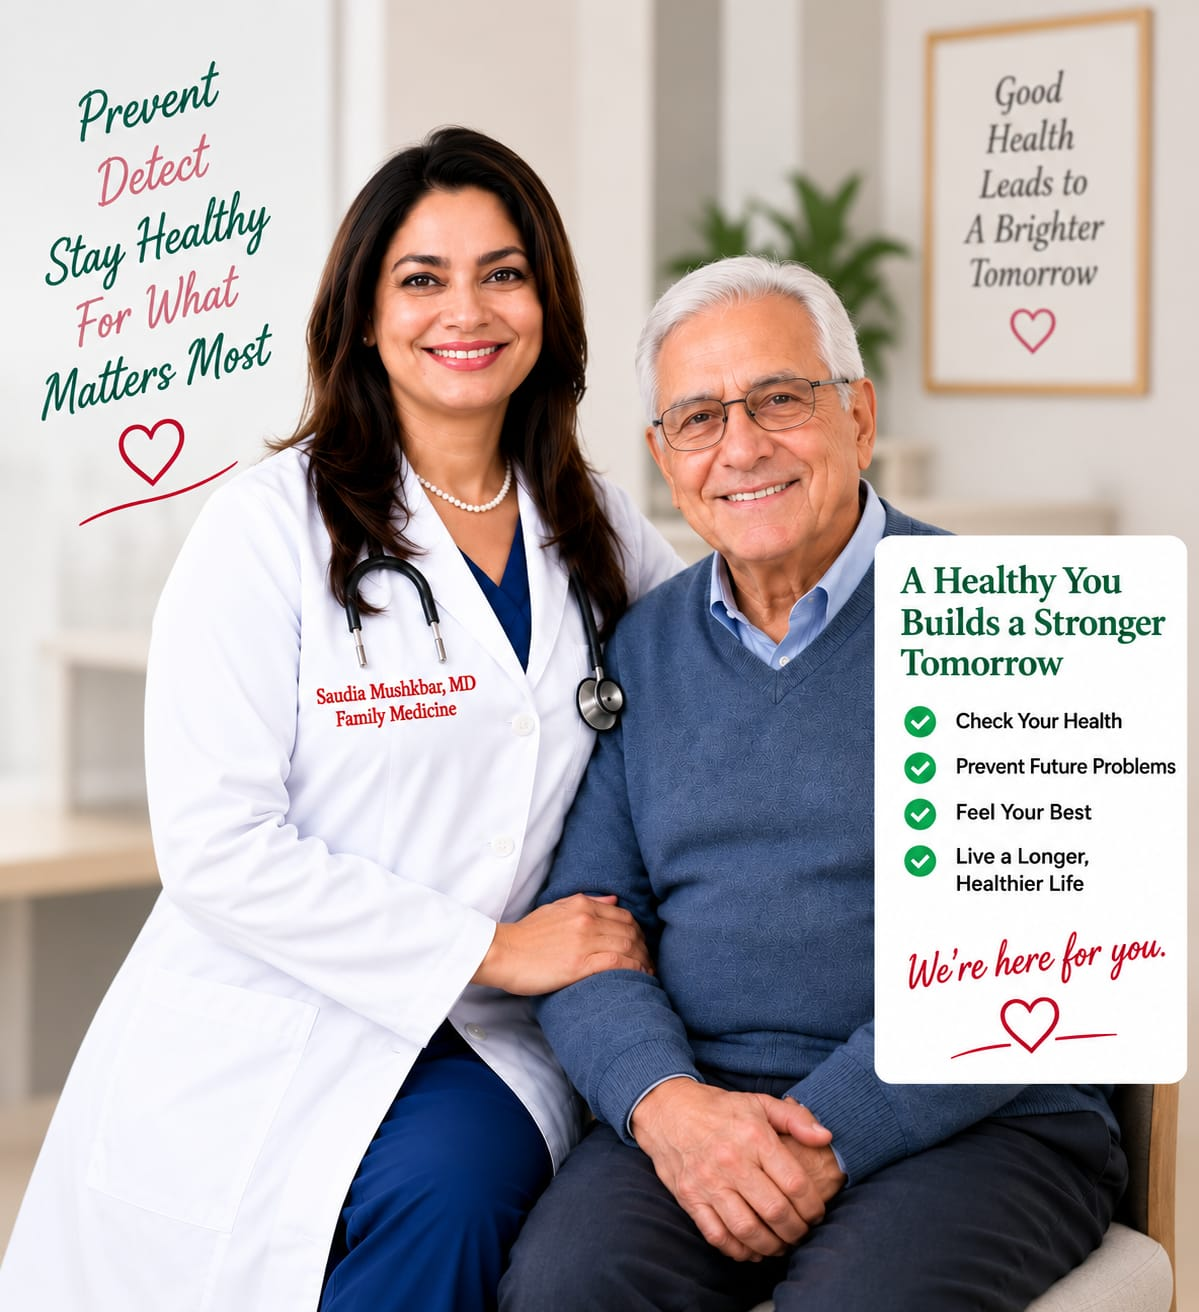
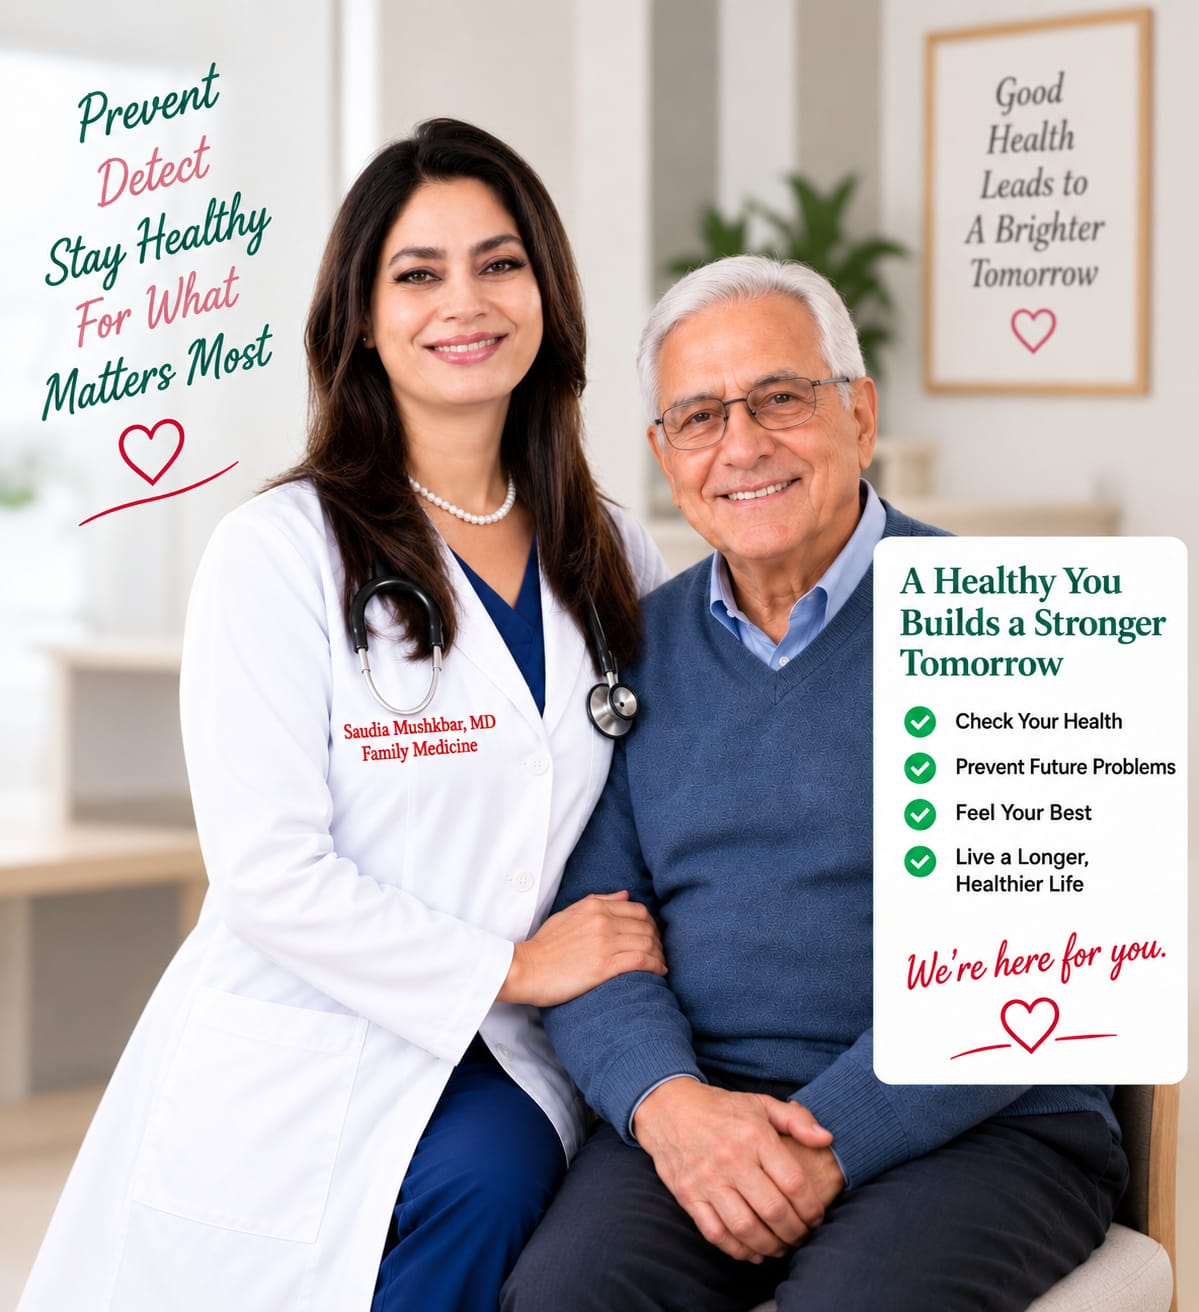
Restructure the Services menu, soften two claims, refresh seven hero images
Services menu now runs Primary Care Doctor, Same-Day Care, Annual Physical,
Women's Primary Care, Senior Primary Care, Hospital Follow-Up, Diabetes, High
Blood Pressure, Weight Loss & GLP-1 — Hospital Follow-Up moves up beside Senior
Primary Care, and the labels shorten to read as menu items rather than page
titles. The three Medicare pages stay in their own menu. The footer's "Care We
Provide" column draws from the same list, so the two cannot drift.

The footer also now links every page on the site. It was reaching eleven of
seventeen: Home was missing, the service column showed only the first six of
nine, and two of the three Medicare pages had no link at all. It is five
columns now, with a Medicare column of its own.

Two wording changes for accuracy rather than style:

The Medicare wellness page said "Covered by Medicare — Part of your Medicare
benefits" and "What Your Medicare Annual Wellness Visit Covers". Both read as a
promise about an individual's cost-sharing, which no web page can make. They
become "Medicare preventive benefit — For eligible beneficiaries" and "...May
Include".

The homepage booking section said "we can discuss a functional approach to
managing it", which implies the practice offers functional medicine. It now
reads "we can evaluate your concerns and develop a personalized approach to
your care". This is the first place migrated copy has been reworded rather than
preserved, so the live site and this one now differ on that sentence.
[…]

diff --git a/lib/landing.ts b/lib/landing.ts
@@ -121,8 +121,8 @@ export const landingPages: LandingPageData[] = [
     image: {
       src: "/images/doctor/womens-primary-care-doctor-toledo.jpg",
       alt: "Dr. Saudia Mushkbar, MD with a patient beside a panel headed “Women’s Health Care At Every Stage of Life”, listing annual wellness exams, pap smears and breast exams, menstrual and hormonal health, contraception counseling, preconception and pregnancy planning, menopause support, bone health screening, management of chronic conditions, and personalized care for all women",
-      width: 1080,
-      height: 977,
+      width: 1319,
+      height: 1193,
     },
     grid: {
       title: "Comprehensive Women’s Health Services",
@@ -288,7 +288,7 @@ export const landingPages: LandingPageData[] = [
     intro:
       "Your Medicare Annual Wellness Visit is an opportunity to step back and look at your health as a whole, then build a plan for the year ahead. Dr. Saudia Mushkbar, MD provides personalized, preventive care to help you stay healthy, independent and in control.",
     points: [
-      { title: "Covered by Medicare", description: "Part of your Medicare benefits.", icon: "ShieldCheck" },
+      { title: "Medicare preventive benefit", description: "For eligible beneficiaries.", icon: "ShieldCheck" },
       { title: "Personalized prevention", description: "Care tailored to your needs.", icon: "ClipboardCheck" },
       { title: "Early detection", description: "Identify risks and catch problems early.", icon: "Microscope" },
       { title: "A plan for the year", description: "Clear next steps you can follow.", icon: "CalendarCheck" },
@@ -300,7 +300,7 @@ export const landingPages: LandingPageData[] = [
       height: 1536,
     },
     grid: {
-      title: "What Your Medicare Annual Wellness Visit Covers",
+      title: "What Your Medicare Annual Wellness Visit May Include",
       items: [
         { title: "Health risk assessment", description: "We review your health history, lifestyle and risks.", icon: "ClipboardCheck" },
         { title: "Personalized care plan", description: "A plan tailored to your health goals.", icon: "Heart" },
@@ -339,15 +339,15 @@ export const landingPages: LandingPageData[] = [
   // ----------------------------------------------------------- annual physical
   {
     path: "/annual-physical-exam-toledo",
-    label: "Annual Physical & Wellness Exam",
-    metaTitle: "Annual Physical & Wellness Exam in Toledo, OH",
+    label: "Annual Physical Exam",
+    metaTitle: "Annual Physical Exam in Toledo, OH",
     metaDescription:
       "Book your annual physical with Dr. Saudia Mushkbar, MD in Toledo — a comprehensive yearly checkup for adults and children with screenings and vaccinations.",
     serviceName: "Annual physical examination",
     accent: "forest",
     badge: { label: "Annual Physical", icon: "ClipboardCheck" },
-    headingLead: "Annual Physical &",
-    headingAccent: "Wellness Exam",
+    headingLead: "Annual Physical",
+    headingAccent: "Exam in Toledo, OH",
     tagline: "One visit a year that looks after the whole picture.",
     intro:
       "Comprehensive yearly checkups for adults and children to monitor health and update vaccinations. Your annual physical is the visit where routine screenings get done, questions get answered and small problems get caught early.",
@@ -364,7 +364,7 @@ export const landingPages: LandingPageData[] = [
       height: 1312,
     },
     grid: {
-      title: "What a Wellness Exam Covers",
+      title: "What Your Annual Physical May Include",
       items: [
         { title: "Physical examination", description: "A thorough head-to-toe check.", icon: "Stethoscope" },
         { title: "Preventive screenings", description: "Cholesterol, blood sugar and cancer screenings.", icon: "Microscope" },
@@ -417,8 +417,8 @@ export const landingPages: LandingPageData[] = [
     image: {
       src: "/images/doctor/senior-primary-care-doctor-toledo.jpg",
       alt: "Dr. Saudia Mushkbar, MD with an older patient beside a panel headed “Comprehensive Primary Care for Seniors”, covering preventive and wellness care, chronic disease management, memory and cognitive health, healthy aging support, care coordination, and Medicare and insurance support",
-      width: 1319,
-      height: 1193,
+      width: 1224,
+      height: 1285,
     },
     grid: {
       title: "Comprehensive Care for Older Adults",

diff --git a/lib/navigation.ts b/lib/navigation.ts
@@ -20,17 +20,17 @@ export type NavItem = NavLink & {
 
 export const servicePages: NavLink[] = [
   {
-    label: "Primary Care in Toledo",
+    label: "Primary Care Doctor",
     href: "/primary-care-doctor-toledo",
     description: "Comprehensive care for children, adults and seniors.",
   },
   {
-    label: "Same-Day Primary Care",
+    label: "Same-Day Care",
     href: "/same-day-primary-care-toledo",
     description: "Get seen today for urgent, non-emergency concerns.",
   },
   {
-    label: "Annual Physical & Wellness Exam",
+    label: "Annual Physical",
     href: "/annual-physical-exam-toledo",
     description: "Yearly checkups, screenings and vaccinations.",
   },
@@ -45,19 +45,19 @@ export const servicePages: NavLink[] = [
     description: "Healthy aging, medication and chronic disease support.",
   },
   {
-    label: "Diabetes Care",
+    label: "Hospital Follow-Up",
+    href: "/hospital-follow-up-primary-care-toledo",
+    description: "Transition care after a hospital stay or ER visit.",
+  },
+  {
+    label: "Diabetes",
     href: "/diabetes-doctor-toledo",
     description: "Blood sugar management and complication prevention.",
   },
   {
-    label: "High Blood Pressure Care",
+    label: "High Blood Pressure",
     href: "/high-blood-pressure-doctor-toledo",
     description: "Monitoring and management of hypertension.",
-  },
-  {
-    label: "Hospital Follow-Up Care",
-    href: "/hospital-follow-up-primary-care-toledo",
-    description: "Transition care after a hospital stay or ER visit.",
   },
   {
     label: "Weight Loss & GLP-1",
@@ -143,6 +143,7 @@ export const allRoutes: { path: string; priority: number; changeFrequency: "week
 
 /** Footer "Pages" column — mirrors the original WordPress footer menu. */
 export const footerNav: NavLink[] = [
+  { label: "Home", href: "/" },
   { label: "About Us", href: "/about" },
   { label: "Our Services", href: "/services" },
   { label: "Medicare", href: "/medicare-primary-care-doctor-toledo" },

diff --git a/components/layout/Footer.tsx b/components/layout/Footer.tsx
@@ -12,7 +12,7 @@ import {
   PRACTICE,
   REVIEWS,
 } from "@/lib/constants";
-import { footerNav, servicePages } from "@/lib/navigation";
+import { footerNav, medicarePages, servicePages } from "@/lib/navigation";
 
 /**
  * Site footer. Carries the id="contact" anchor the WordPress site used, so any
@@ -24,7 +24,7 @@ export function Footer() {
   return (
     <footer id="contact" className="mt-24 bg-brand text-white/80">
       <Container className="py-16 lg:py-20">
-        <div className="grid gap-12 lg:grid-cols-[1.4fr_1fr_1fr_1.1fr]">
+        <div className="grid gap-10 sm:grid-cols-2 lg:grid-cols-[1.25fr_0.8fr_1.15fr_1fr_1fr] lg:gap-8">
           <div>
             <Logo tone="light" />
 
@@ -102,7 +102,28 @@ export function Footer() {
               Care We Provide
             </h2>
             <ul className="mt-5 flex flex-col gap-3">
-              {servicePages.slice(0, 6).map((item) => (
+              {servicePages.map((item) => (
+                <li key={item.href}>
+                  <Link
+                    href={item.href}
+                    className="text-[0.9375rem] transition-colors hover:text-white"
+                  >
+                    {item.label}
+                  </Link>
+                </li>
+              ))}
+            </ul>
+          </nav>
+
+          <nav aria-labelledby="footer-medicare">
+            <h2
+              id="footer-medicare"
+              className="font-mono text-eyebrow uppercase tracking-[0.14em] text-accent"
+            >
+              Medicare
+            </h2>
+            <ul className="mt-5 flex flex-col gap-3">
+              {medicarePages.map((item) => (
                 <li key={item.href}>
                   <Link
                     href={item.href}

diff --git a/lib/content.ts b/lib/content.ts
@@ -156,7 +156,7 @@ export const bookingSteps = [
 ];
 
 export const bookingIntro =
-  "If you are concerned about any health condition you have or are worried you may have, we can discuss a functional approach to managing it.";
+  "If you are concerned about any health condition you have or are worried you may have, we can evaluate your concerns and develop a personalized approach to your care.";
 
 export type Testimonial = {
   quote: string;
